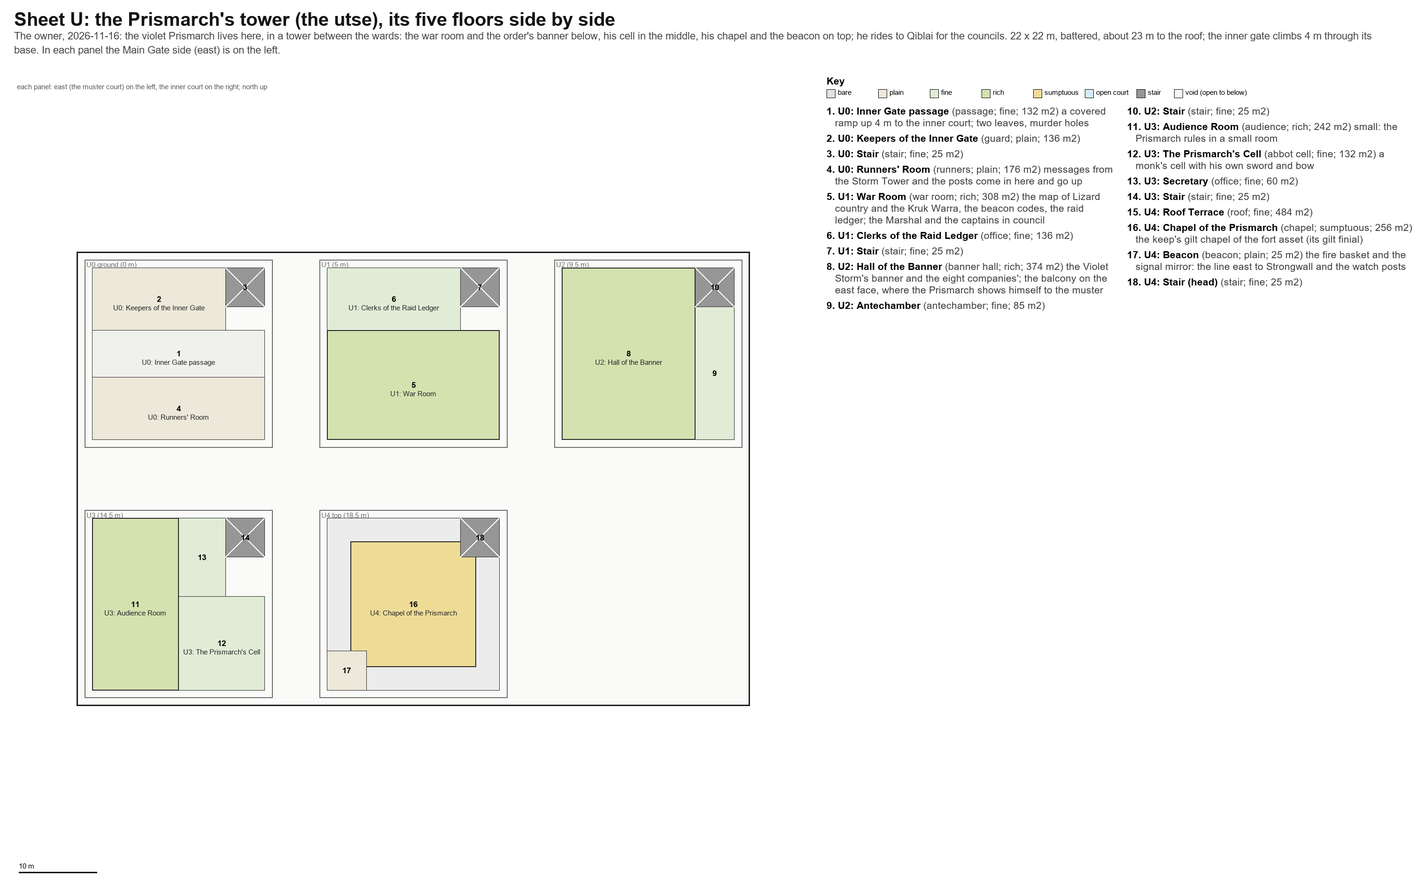
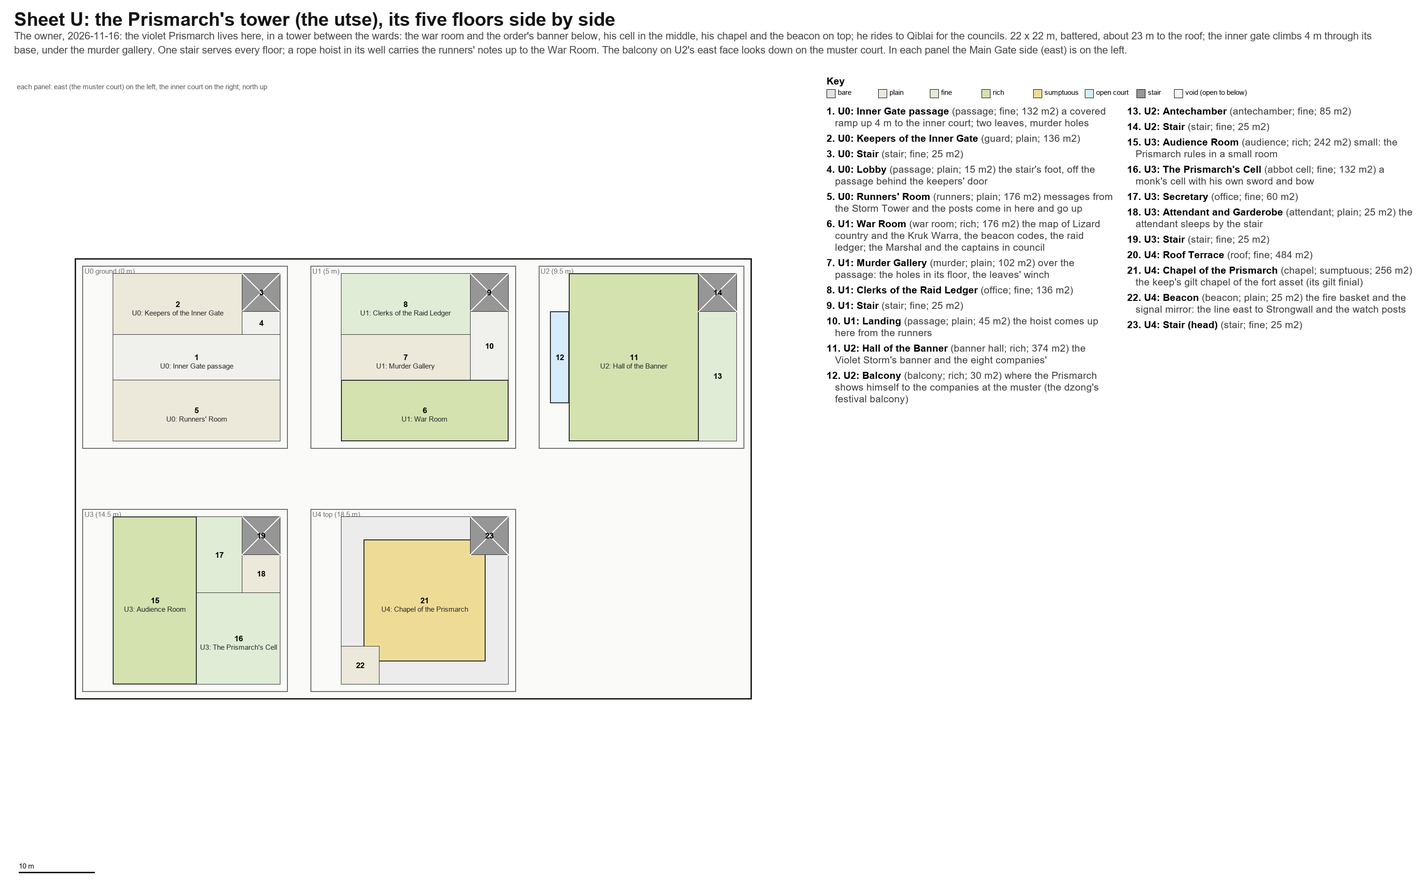
The House of the Tempest: sheet U and the section, a second pass
- U: a murder gallery over the inner gate passage on U1 (the War Room moves to the passage's south side); the
  balcony on U2's east face over the muster court drawn; an attendant's room and garderobe on U3; the stair's
  lobby on U0 and the landing on U1, where a rope hoist brings up the runners' notes; the sheet numbered in list order.
- Section: the hall's top storey split into the Hall of Vigil, the light well under the crown (its light drawn
  falling into the two-storey hall) and the windowless gonkhang; a height scale; the stair names in a key along
  the bottom instead of over the buildings; the stray curtain box through the Storm Tower removed.

diff --git a/settlements/strongwall/tempest/tempest_blueprint.py b/settlements/strongwall/tempest/tempest_blueprint.py
@@ -327,32 +327,38 @@ def ubox(pid, n, name, kind, b, decor, note=''):
     return up(pid, n, name, kind, b[0], b[1], b[2], b[3], decor, note)
 def upanel(pid, label):
     c, r = UPAN[pid]; du = -63 + c * 30; dv = 16 if r == 0 else -16
-    return (du - 1, du + 23, dv - 12, dv + 12, label)
-FLOORS.append(dict(R=50, rect=(-65, 21, -29, 29), id='U', tier=0,
+    return (du - 4, du + 23, dv - 12, dv + 12, label)
+FLOORS.append(dict(R=50, rect=(-68, 21, -29, 29), id='U', tier=0,
   title='Sheet U: the Prismarch\'s tower (the utse), its five floors side by side',
-  sub='The owner, 2026-11-16: the violet Prismarch lives here, in a tower between the wards: the war room and the order\'s banner below, his cell in the middle, his chapel and the beacon on top; he rides to Qiblai for the councils. 22 x 22 m, battered, about 23 m to the roof; the inner gate climbs 4 m through its base. In each panel the Main Gate side (east) is on the left.',
+  sub='The owner, 2026-11-16: the violet Prismarch lives here, in a tower between the wards: the war room and the order\'s banner below, his cell in the middle, his chapel and the beacon on top; he rides to Qiblai for the councils. 22 x 22 m, battered, about 23 m to the roof; the inner gate climbs 4 m through its base, under the murder gallery. One stair serves every floor; a rope hoist in its well carries the runners\' notes up to the War Room. The balcony on U2\'s east face looks down on the muster court. In each panel the Main Gate side (east) is on the left.',
   axisnote='each panel: east (the muster court) on the left, the inner court on the right; north up',
   outlines=[upanel('U0', 'U0 ground (0 m)'), upanel('U1', 'U1 (5 m)'), upanel('U2', 'U2 (9.5 m)'), upanel('U3', 'U3 (14.5 m)'), upanel('U4', 'U4 top (18.5 m)')],
   rooms=[
     up('U0', 1, 'Inner Gate passage', 'passage', 0, 22, -3, 3, 2, 'a covered ramp up 4 m to the inner court; two leaves, murder holes'),
     up('U0', 2, 'Keepers of the Inner Gate', 'guard', 0, 17, 3, 11, 1),
     ubox('U0', 3, 'Stair', 'stair', US, 2),
+    up('U0', 0, 'Lobby', 'passage', 17, 22, 3, 6, 1, 'the stair\'s foot, off the passage behind the keepers\' door'),
     up('U0', 4, 'Runners\' Room', 'runners', 0, 22, -11, -3, 1, 'messages from the Storm Tower and the posts come in here and go up'),
-    up('U1', 5, 'War Room', 'war_room', 0, 22, -11, 3, 3, 'the map of Lizard country and the Kruk Warra, the beacon codes, the raid ledger; the Marshal and the captains in council'),
-    up('U1', 6, 'Clerks of the Raid Ledger', 'office', 0, 17, 3, 11, 2),
-    ubox('U1', 7, 'Stair', 'stair', US, 2),
-    up('U2', 8, 'Hall of the Banner', 'banner_hall', 0, 17, -11, 11, 3, 'the Violet Storm\'s banner and the eight companies\'; the balcony on the east face, where the Prismarch shows himself to the muster'),
-    up('U2', 9, 'Antechamber', 'antechamber', 17, 22, -11, 6, 2),
-    ubox('U2', 10, 'Stair', 'stair', US, 2),
-    up('U3', 11, 'Audience Room', 'audience', 0, 11, -11, 11, 3, 'small: the Prismarch rules in a small room'),
-    up('U3', 12, 'The Prismarch\'s Cell', 'abbot_cell', 11, 22, -11, 1, 2, 'a monk\'s cell with his own sword and bow'),
-    up('U3', 13, 'Secretary', 'office', 11, 17, 1, 11, 2),
-    ubox('U3', 14, 'Stair', 'stair', US, 2),
-    up('U4', 15, 'Roof Terrace', 'roof', 0, 22, -11, 11, 2),
-    up('U4', 16, 'Chapel of the Prismarch', 'chapel', 3, 19, -8, 8, 4, 'the keep\'s gilt chapel of the fort asset (its gilt finial)'),
-    up('U4', 17, 'Beacon', 'beacon', 0, 5, -11, -6, 1, 'the fire basket and the signal mirror: the line east to Strongwall and the watch posts'),
-    ubox('U4', 18, 'Stair (head)', 'stair', US, 2),
+    up('U1', 5, 'War Room', 'war_room', 0, 22, -11, -3, 3, 'the map of Lizard country and the Kruk Warra, the beacon codes, the raid ledger; the Marshal and the captains in council'),
+    up('U1', 6, 'Murder Gallery', 'murder', 0, 17, -3, 3, 1, 'over the passage: the holes in its floor, the leaves\' winch'),
+    up('U1', 7, 'Clerks of the Raid Ledger', 'office', 0, 17, 3, 11, 2),
+    ubox('U1', 8, 'Stair', 'stair', US, 2),
+    up('U1', 0, 'Landing', 'passage', 17, 22, -3, 6, 1, 'the hoist comes up here from the runners'),
+    up('U2', 9, 'Hall of the Banner', 'banner_hall', 0, 17, -11, 11, 3, 'the Violet Storm\'s banner and the eight companies\''),
+    up('U2', 10, 'Balcony', 'balcony', -2.5, 0, -6, 6, 3, 'where the Prismarch shows himself to the companies at the muster (the dzong\'s festival balcony)'),
+    up('U2', 11, 'Antechamber', 'antechamber', 17, 22, -11, 6, 2),
+    ubox('U2', 12, 'Stair', 'stair', US, 2),
+    up('U3', 13, 'Audience Room', 'audience', 0, 11, -11, 11, 3, 'small: the Prismarch rules in a small room'),
+    up('U3', 14, 'The Prismarch\'s Cell', 'abbot_cell', 11, 22, -11, 1, 2, 'a monk\'s cell with his own sword and bow'),
+    up('U3', 15, 'Secretary', 'office', 11, 17, 1, 11, 2),
+    up('U3', 16, 'Attendant and Garderobe', 'attendant', 17, 22, 1, 6, 1, 'the attendant sleeps by the stair'),
+    ubox('U3', 17, 'Stair', 'stair', US, 2),
+    up('U4', 18, 'Roof Terrace', 'roof', 0, 22, -11, 11, 2),
+    up('U4', 19, 'Chapel of the Prismarch', 'chapel', 3, 19, -8, 8, 4, 'the keep\'s gilt chapel of the fort asset (its gilt finial)'),
+    up('U4', 20, 'Beacon', 'beacon', 0, 5, -11, -6, 1, 'the fire basket and the signal mirror: the line east to Strongwall and the watch posts'),
+    ubox('U4', 21, 'Stair (head)', 'stair', US, 2),
   ]))
+for _i, _r in enumerate(FLOORS[-1]['rooms']): _r['n'] = _i + 1   # sheet U is numbered in list order
 
 # ------------------------------------------------------------------------------------------------ the programmes
 cs = lambda n: max(1, round(n))
@@ -385,7 +391,9 @@ def programs():
       'towers': lambda a, w, d, D: [('xanadu_common_weapon_rack', N_TOWERS), ('xanadu_arms_arrow_bin', N_TOWERS), ('xanadu_common_bench', N_TOWERS)],
       'caravan_halt': lambda a, w, d, D: [('xanadu_trade_trough', 4), ('xanadu_trade_hayrack', 4), ('xanadu_common_bench', 4)],
       'tea_kitchen': lambda a, w, d, D: [('xanadu_common_tea_copper', 2), ('xanadu_common_hearth', 1), ('xanadu_works_churn', 2), ('xanadu_common_workbench', 1), ('xanadu_common_jug', 12)],
-      'latrine': lambda a, w, d, D: [], 'sang': lambda a, w, d, D: [('xanadu_court_incense_burner', 1)],
+      'latrine': lambda a, w, d, D: [],
+      'murder': lambda a, w, d, D: [('xanadu_common_weapon_rack', 2), ('xanadu_arms_arrow_bin', 2), ('xanadu_common_store', 2)],
+      'balcony': lambda a, w, d, D: [], 'attendant': lambda a, w, d, D: [('xanadu_common_bed', 1), ('xanadu_common_chest', 1)], 'sang': lambda a, w, d, D: [('xanadu_court_incense_burner', 1)],
       'lists': lambda a, w, d, D: [], 'bank': lambda a, w, d, D: [], 'field': lambda a, w, d, D: [], 'threshing': lambda a, w, d, D: [], 'cloister_court': lambda a, w, d, D: [],
       'roof': lambda a, w, d, D: [],
       'refectory': lambda a, w, d, D: [('xanadu_common_table', cs(a / 19)), ('xanadu_common_bench', cs(a / 9.5)), ('xanadu_common_reader_seat', 1), ('xanadu_common_bowl', cs(a / 4)), ('xanadu_common_jug', cs(a / 19))],
@@ -425,7 +433,7 @@ def programs():
     }
 
 OPEN = {'muster', 'lists', 'drill_court', 'archery', 'bank', 'yard', 'maydan', 'horse_park', 'field', 'threshing', 'cloister_court',
-        'fallen', 'founder', 'song_drum', 'roof', 'well', 'inner_court', 'porch', 'watch', 'hay', 'midden', 'garderobe', 'caravan_halt', 'sang'}
+        'fallen', 'founder', 'song_drum', 'roof', 'well', 'inner_court', 'porch', 'watch', 'hay', 'midden', 'garderobe', 'caravan_halt', 'sang', 'balcony'}
 
 def keymap():
     m = LS.keymap()
@@ -483,10 +491,15 @@ def draw_section():
     rect(-12.5, 25, 5.2, 11.6, (238, 228, 242)); dr.text((X(-12.5) + 3, Y(11.6) - 22), 'side ranges', font=fs, fill=(110, 90, 120))
     dr.rectangle([X(-9.2), Y(9.4), X(-5.2), Y(5.2)], fill=(238, 220, 150), outline=(30, 30, 30)); dr.text((X(-12), Y(9.4) - 22), 'Song drum', font=fs, fill=(0, 0, 0))
     rect(2.6, 5.8, 5.8, 9.0, (236, 232, 218))
-    for h0, h1, nm in [(5.8, 14.8, 'Assembly Hall (2 storeys)'), (14.8, 18.4, "Hall of Vigil; gonkhang")]:
-        rect(5.8, 22.8, h0, h1, (200, 160, 210)); dr.text((X(5.8) + 3, Y(h1) + 2), nm, font=fs, fill=(0, 0, 0))
+    rect(5.8, 22.8, 5.8, 14.8, (200, 160, 210)); dr.text((X(5.8) + 3, Y(14.8) + 2), 'Assembly Hall', font=fs, fill=(0, 0, 0))
+    dr.text((X(5.8) + 3, Y(14.8) + 22), '(two storeys)', font=fs, fill=(0, 0, 0))
+    rect(5.8, 11.6, 14.8, 18.4, (200, 160, 210)); dr.text((X(5.8) + 3, Y(18.4) + 2), 'vigil', font=fs, fill=(0, 0, 0))
+    rect(17.0, 22.8, 14.8, 18.4, (150, 110, 160)); dr.text((X(23.5), Y(18.4) - 4), 'gonkhang', font=fs, fill=(90, 50, 100))
+    rect(11.6, 17.0, 14.8, 18.4, (255, 255, 240))
+    for du in (1.2, 2.7, 4.2):
+        dr.line([(X(11.6 + du), Y(18.4)), (X(11.0 + du), Y(12.5))], fill=(220, 180, 60), width=2)
     dr.polygon([(X(11.6), Y(18.4)), (X(17.0), Y(18.4)), (X(16), Y(21)), (X(14.3), Y(22.5)), (X(12.6), Y(21))], fill=(238, 220, 150), outline=(120, 80, 0))
-    dr.text((X(18), Y(22.5) - 22), 'the gilt crown', font=fs, fill=(120, 80, 0))
+    dr.text((X(18), Y(22.5) - 22), 'the gilt crown: its light falls through the well into the hall', font=fs, fill=(120, 80, 0))
     rect(25, 32, 5.2, 11.6, (200, 160, 210)); dr.text((X(20), Y(4) + 4), 'back range', font=fs, fill=(0, 0, 0))
     rect(38, 48, 4, 12, (238, 220, 150)); dr.text((X(36), Y(12) - 22), "Founder's Chorten", font=fs, fill=(0, 0, 0))
     rect(53, 57, 0, 12, (236, 232, 218)); dr.text((X(48), Y(12) - 44), 'inner curtain 12 m', font=fs, fill=(0, 0, 0))
@@ -494,13 +507,16 @@ def draw_section():
     for h0, h1, nm in [(0, 5, 'west watch'), (5, 10, 'signal room'), (10, 15, 'watch'), (15, 20, 'mirrors, fire')]:
         rect(114, 140, h0, h1, (236, 232, 218)); dr.text((X(114) + 3, Y(h1) + 2), nm, font=fs, fill=(0, 0, 0))
     dr.text((X(108), Y(20) - 22), 'Storm Tower', font=fs, fill=(0, 0, 0))
-    rect(128, 132, 0, 9, (236, 232, 218))
     dr.line([(X(50), Y(4)), (X(52), Y(-4)), (X(150), Y(-4))], fill=(160, 0, 0), width=3); dr.text((X(62), Y(-4) + 4), "the Founder's Way (tunnel) to the brow's scrub", font=fs, fill=(160, 0, 0))
     k = 0
     for u, h0, h1, name, col in [(-43.5, 0, 22.5, 'utse stair', (0, 0, 0)), (-11.2, 5.2, 11.6, 'front stairs', (0, 120, 0)), (20.9, 5.8, 18.4, 'hall stair', (160, 0, 120)),
                                  (28.5, 5.2, 11.6, 'back stair', (0, 0, 160)), (137, 0, 20, 'tower stair', (120, 80, 0))]:
-        dr.line([(X(u), Y(h0)), (X(u), Y(h1))], fill=col, width=5); dr.text((X(u) + 6, Y(h1) + 30 + 20 * (k % 2)), name, font=fs, fill=col); k += 1
+        dr.line([(X(u), Y(h0)), (X(u), Y(h1))], fill=col, width=5)
+        dr.line([(X(-80) + k * 150, Y(-6) + 6), (X(-80) + k * 150 + 26, Y(-6) + 6)], fill=col, width=5); dr.text((X(-80) + k * 150 + 32, Y(-6) - 4), name, font=fs, fill=col); k += 1
     dr.line([(X(-170), Y(0)), (X(150), Y(0))], fill=(80, 80, 80), width=1)
+    for hh in range(0, 30, 5):
+        dr.line([(X(146), Y(hh)), (X(148), Y(hh))], fill=(0, 0, 0), width=2); dr.text((X(148) + 4, Y(hh) - 10), '%d m' % hh, font=fs, fill=(90, 90, 90))
+    dr.line([(X(146), Y(0)), (X(146), Y(25))], fill=(0, 0, 0), width=2)
     dr.line([(X(-160), Y(-6)), (X(-110), Y(-6))], fill=(0, 0, 0), width=3); dr.text((X(-160), Y(-6) + 4), '50 m', font=fs, fill=(0, 0, 0))
     return img
 

diff --git a/settlements/strongwall/tempest/FURNITURE.md b/settlements/strongwall/tempest/FURNITURE.md
@@ -225,46 +225,49 @@ The hall's top storey is the Hall of Vigil round the light well, where the Song-
 
 ## Sheet U: the Prismarch's tower (the utse), its five floors side by side
 
-The owner, 2026-11-16: the violet Prismarch lives here, in a tower between the wards: the war room and the order's banner below, his cell in the middle, his chapel and the beacon on top; he rides to Qiblai for the councils. 22 x 22 m, battered, about 23 m to the roof; the inner gate climbs 4 m through its base. In each panel the Main Gate side (east) is on the left.
+The owner, 2026-11-16: the violet Prismarch lives here, in a tower between the wards: the war room and the order's banner below, his cell in the middle, his chapel and the beacon on top; he rides to Qiblai for the councils. 22 x 22 m, battered, about 23 m to the roof; the inner gate climbs 4 m through its base, under the murder gallery. One stair serves every floor; a rope hoist in its well carries the runners' notes up to the War Room. The balcony on U2's east face looks down on the muster court. In each panel the Main Gate side (east) is on the left.
 
 | # | Room | Kind | Decor | m2 | Pieces |
 |---|---|---|---|---|---|
 | 2 | U0: Keepers of the Inner Gate | guard | plain | 136 | xanadu_arms_arrow_bin x1 **NEW**, xanadu_common_armour_stand x2, xanadu_common_banner x1, xanadu_common_bench x2, xanadu_common_fire x1, xanadu_common_hanging x1, xanadu_common_lamp x2, xanadu_common_table x1, xanadu_common_weapon_rack x2 |
 | 3 | U0: Stair | stair | fine | 25 | xanadu_common_lamp x1 |
-| 4 | U0: Runners' Room | runners | plain | 176 | xanadu_common_banner x1, xanadu_common_bench x4, xanadu_common_board x1, xanadu_common_chest x1, xanadu_common_hanging x1, xanadu_common_hour_drum x1 **NEW**, xanadu_common_lamp x3 |
-| 5 | U1: War Room | war room | rich | 308 | xanadu_common_board x3, xanadu_common_chair x12, xanadu_common_planter x3, xanadu_court_art x2, xanadu_court_bookcase x2, xanadu_court_carpet x4, xanadu_court_council_table x1, xanadu_court_hanging x3, xanadu_court_lamp x8, xanadu_court_map_table x1, xanadu_court_statue x1, xanadu_court_tapestry x4, xanadu_court_wall_rug x2 |
-| 6 | U1: Clerks of the Raid Ledger | office | fine | 136 | xanadu_common_art x2, xanadu_common_banner x1, xanadu_common_board x1, xanadu_common_bookcase x3, xanadu_common_chair x5, xanadu_common_chest x1, xanadu_common_desk x3, xanadu_common_hanging x1, xanadu_common_lamp x3, xanadu_common_rug x2, xanadu_common_scroll x1 |
-| 7 | U1: Stair | stair | fine | 25 | xanadu_common_lamp x1 |
-| 8 | U2: Hall of the Banner | banner hall | rich | 374 | xanadu_common_planter x3, xanadu_common_weapon_rack x2, xanadu_court_art x3, xanadu_court_banner x8, xanadu_court_carpet x5, xanadu_court_hanging x4, xanadu_court_lamp x9, xanadu_court_statue x1, xanadu_court_storm_banner x1 **NEW**, xanadu_court_tapestry x5, xanadu_court_wall_rug x3 |
-| 9 | U2: Antechamber | antechamber | fine | 85 | xanadu_common_art x1, xanadu_common_banner x1, xanadu_common_chair x3, xanadu_common_hanging x1, xanadu_common_lamp x2, xanadu_common_rug x1, xanadu_common_scroll x1, xanadu_court_divan x2, xanadu_court_low_table x1, xanadu_court_screen x1 |
-| 10 | U2: Stair | stair | fine | 25 | xanadu_common_lamp x1 |
-| 11 | U3: Audience Room | audience | rich | 242 | xanadu_common_meditation_cushion x8, xanadu_common_planter x2, xanadu_court_art x2, xanadu_court_carpet x3, xanadu_court_hanging x3, xanadu_court_lamp x6, xanadu_court_low_table x2, xanadu_court_screen x1, xanadu_court_statue x1, xanadu_court_tapestry x4, xanadu_court_throne x1, xanadu_court_wall_rug x2 |
-| 12 | U3: The Prismarch's Cell | abbot cell | fine | 132 | xanadu_arms_bow_rack x1 **NEW**, xanadu_common_armour_stand x1, xanadu_common_art x2, xanadu_common_banner x1, xanadu_common_bed x1, xanadu_common_chest x1, xanadu_common_desk x1, xanadu_common_hanging x1, xanadu_common_lamp x3, xanadu_common_meditation_cushion x1, xanadu_common_rug x2, xanadu_common_scroll x1, xanadu_common_weapon_rack x1 |
-| 13 | U3: Secretary | office | fine | 60 | xanadu_common_art x1, xanadu_common_banner x1, xanadu_common_board x1, xanadu_common_bookcase x1, xanadu_common_chair x2, xanadu_common_chest x1, xanadu_common_desk x2, xanadu_common_hanging x1, xanadu_common_lamp x1, xanadu_common_rug x1, xanadu_common_scroll x1 |
-| 14 | U3: Stair | stair | fine | 25 | xanadu_common_lamp x1 |
-| 15 | U4: Roof Terrace | roof | fine | 484 |  |
-| 16 | U4: Chapel of the Prismarch | chapel | sumptuous | 256 | xanadu_common_candle x8, xanadu_common_planter x3, xanadu_court_altar x1, xanadu_court_art x3, xanadu_court_candelabra x3, xanadu_court_carpet x4, xanadu_court_fire x2, xanadu_court_frieze x5, xanadu_court_hanging x4, xanadu_court_lamp x9, xanadu_court_painted_hanging x2, xanadu_court_statue x2, xanadu_court_tapestry x7 |
-| 17 | U4: Beacon | beacon | plain | 25 | xanadu_common_beacon_basket x1 **NEW**, xanadu_common_lamp x1, xanadu_common_signal_mirror x1 **NEW**, xanadu_common_store x2 |
-| 18 | U4: Stair (head) | stair | fine | 25 | xanadu_common_lamp x1 |
+| 5 | U0: Runners' Room | runners | plain | 176 | xanadu_common_banner x1, xanadu_common_bench x4, xanadu_common_board x1, xanadu_common_chest x1, xanadu_common_hanging x1, xanadu_common_hour_drum x1 **NEW**, xanadu_common_lamp x3 |
+| 6 | U1: War Room | war room | rich | 176 | xanadu_common_board x3, xanadu_common_chair x12, xanadu_common_planter x1, xanadu_court_art x2, xanadu_court_bookcase x2, xanadu_court_carpet x2, xanadu_court_council_table x1, xanadu_court_hanging x2, xanadu_court_lamp x4, xanadu_court_map_table x1, xanadu_court_statue x1, xanadu_court_tapestry x4, xanadu_court_wall_rug x2 |
+| 7 | U1: Murder Gallery | murder | plain | 102 | xanadu_arms_arrow_bin x2 **NEW**, xanadu_common_banner x1, xanadu_common_hanging x1, xanadu_common_lamp x2, xanadu_common_store x2, xanadu_common_weapon_rack x2 |
+| 8 | U1: Clerks of the Raid Ledger | office | fine | 136 | xanadu_common_art x2, xanadu_common_banner x1, xanadu_common_board x1, xanadu_common_bookcase x3, xanadu_common_chair x5, xanadu_common_chest x1, xanadu_common_desk x3, xanadu_common_hanging x1, xanadu_common_lamp x3, xanadu_common_rug x2, xanadu_common_scroll x1 |
+| 9 | U1: Stair | stair | fine | 25 | xanadu_common_lamp x1 |
+| 11 | U2: Hall of the Banner | banner hall | rich | 374 | xanadu_common_planter x3, xanadu_common_weapon_rack x2, xanadu_court_art x3, xanadu_court_banner x8, xanadu_court_carpet x5, xanadu_court_hanging x4, xanadu_court_lamp x9, xanadu_court_statue x1, xanadu_court_storm_banner x1 **NEW**, xanadu_court_tapestry x5, xanadu_court_wall_rug x3 |
+| 12 | U2: Balcony | balcony | rich | 30 |  |
+| 13 | U2: Antechamber | antechamber | fine | 85 | xanadu_common_art x1, xanadu_common_banner x1, xanadu_common_chair x3, xanadu_common_hanging x1, xanadu_common_lamp x2, xanadu_common_rug x1, xanadu_common_scroll x1, xanadu_court_divan x2, xanadu_court_low_table x1, xanadu_court_screen x1 |
+| 14 | U2: Stair | stair | fine | 25 | xanadu_common_lamp x1 |
+| 15 | U3: Audience Room | audience | rich | 242 | xanadu_common_meditation_cushion x8, xanadu_common_planter x2, xanadu_court_art x2, xanadu_court_carpet x3, xanadu_court_hanging x3, xanadu_court_lamp x6, xanadu_court_low_table x2, xanadu_court_screen x1, xanadu_court_statue x1, xanadu_court_tapestry x4, xanadu_court_throne x1, xanadu_court_wall_rug x2 |
+| 16 | U3: The Prismarch's Cell | abbot cell | fine | 132 | xanadu_arms_bow_rack x1 **NEW**, xanadu_common_armour_stand x1, xanadu_common_art x2, xanadu_common_banner x1, xanadu_common_bed x1, xanadu_common_chest x1, xanadu_common_desk x1, xanadu_common_hanging x1, xanadu_common_lamp x3, xanadu_common_meditation_cushion x1, xanadu_common_rug x2, xanadu_common_scroll x1, xanadu_common_weapon_rack x1 |
+| 17 | U3: Secretary | office | fine | 60 | xanadu_common_art x1, xanadu_common_banner x1, xanadu_common_board x1, xanadu_common_bookcase x1, xanadu_common_chair x2, xanadu_common_chest x1, xanadu_common_desk x2, xanadu_common_hanging x1, xanadu_common_lamp x1, xanadu_common_rug x1, xanadu_common_scroll x1 |
+| 18 | U3: Attendant and Garderobe | attendant | plain | 25 | xanadu_common_bed x1, xanadu_common_chest x1, xanadu_common_lamp x1 |
+| 19 | U3: Stair | stair | fine | 25 | xanadu_common_lamp x1 |
+| 20 | U4: Roof Terrace | roof | fine | 484 |  |
+| 21 | U4: Chapel of the Prismarch | chapel | sumptuous | 256 | xanadu_common_candle x8, xanadu_common_planter x3, xanadu_court_altar x1, xanadu_court_art x3, xanadu_court_candelabra x3, xanadu_court_carpet x4, xanadu_court_fire x2, xanadu_court_frieze x5, xanadu_court_hanging x4, xanadu_court_lamp x9, xanadu_court_painted_hanging x2, xanadu_court_statue x2, xanadu_court_tapestry x7 |
+| 22 | U4: Beacon | beacon | plain | 25 | xanadu_common_beacon_basket x1 **NEW**, xanadu_common_lamp x1, xanadu_common_signal_mirror x1 **NEW**, xanadu_common_store x2 |
+| 23 | U4: Stair (head) | stair | fine | 25 | xanadu_common_lamp x1 |
 
 ## Totals by piece
 
 | Key | Count | Note |
 |---|---|---|
-| xanadu_common_bed | 670 |  |
-| xanadu_common_chest | 614 |  |
-| xanadu_common_lamp | 535 |  |
+| xanadu_common_bed | 671 |  |
+| xanadu_common_chest | 615 |  |
+| xanadu_common_lamp | 538 |  |
 | xanadu_common_armour_stand | 382 |  |
 | xanadu_common_meditation_cushion | 343 |  |
 | xanadu_trade_stall | 327 |  |
-| xanadu_common_weapon_rack | 290 |  |
+| xanadu_common_weapon_rack | 292 |  |
 | xanadu_common_bench | 264 |  |
 | xanadu_common_bowl | 258 |  |
 | xanadu_arms_bow_rack | 227 | strung horn-and-sinew recurve bows on wall pegs, a quiver hung under each, violet cords |
-| xanadu_common_hanging | 200 |  |
+| xanadu_common_hanging | 201 |  |
 | xanadu_common_candle | 171 |  |
 | xanadu_trade_hayrack | 139 |  |
-| xanadu_arms_arrow_bin | 125 | a slatted bin of arrows in sheaves of thirty, fletched violet and white |
+| xanadu_arms_arrow_bin | 127 | a slatted bin of arrows in sheaves of thirty, fletched violet and white |
 | xanadu_arms_saddle_rack | 123 | saddles on wall pegs, bridles and the violet saddle-cloths below |
 | xanadu_common_rug | 122 |  |
 | xanadu_arms_bow_form | 121 | a composite bow lashed to its shaped wooden form to cure (a loft holds them in rows for a year) |
@@ -272,11 +275,11 @@ The owner, 2026-11-16: the violet Prismarch lives here, in a tower between the w
 | xanadu_works_sickbed | 120 |  |
 | xanadu_common_table | 109 |  |
 | xanadu_common_chair | 107 |  |
-| xanadu_common_banner | 102 |  |
+| xanadu_common_banner | 103 |  |
+| xanadu_common_store | 100 |  |
 | xanadu_common_wall_shelves | 99 |  |
-| xanadu_common_store | 98 |  |
 | xanadu_trade_bin | 96 |  |
-| xanadu_court_lamp | 95 |  |
+| xanadu_court_lamp | 91 |  |
 | xanadu_trade_trough | 90 |  |
 | xanadu_court_tapestry | 85 |  |
 | xanadu_common_art | 81 |  |
@@ -285,10 +288,10 @@ The owner, 2026-11-16: the violet Prismarch lives here, in a tower between the w
 | xanadu_common_prayer_wheels | 57 |  |
 | xanadu_common_low_table | 53 |  |
 | xanadu_common_stool | 52 |  |
-| xanadu_common_planter | 51 |  |
-| xanadu_court_hanging | 49 |  |
-| xanadu_court_carpet | 47 |  |
+| xanadu_common_planter | 49 |  |
+| xanadu_court_hanging | 48 |  |
 | xanadu_common_scroll | 46 |  |
+| xanadu_court_carpet | 45 |  |
 | xanadu_common_workbench | 43 |  |
 | xanadu_common_bath_basin | 38 |  |
 | xanadu_court_art | 36 |  |
@@ -357,7 +360,7 @@ The owner, 2026-11-16: the violet Prismarch lives here, in a tower between the w
 
 ## Pieces the catalog lacks (NEW)
 
-- `xanadu_arms_arrow_bin`: a slatted bin of arrows in sheaves of thirty, fletched violet and white (x125)
+- `xanadu_arms_arrow_bin`: a slatted bin of arrows in sheaves of thirty, fletched violet and white (x127)
 - `xanadu_arms_bow_form`: a composite bow lashed to its shaped wooden form to cure (a loft holds them in rows for a year) (x121)
 - `xanadu_arms_bow_rack`: strung horn-and-sinew recurve bows on wall pegs, a quiver hung under each, violet cords (x227)
 - `xanadu_arms_fletching_bench`: the fletcher's bench: shafts, a feather box, a glue pot on a brazier, a straightening iron (x15)

diff --git a/settlements/strongwall/tempest/BLUEPRINT.md b/settlements/strongwall/tempest/BLUEPRINT.md
@@ -145,7 +145,7 @@ and in the walled paddock by night; the milking herd at the byres.
 | M1 | monastery, ground | the Gate of the Song, the porter's lodge, the Blade Room, the sacristy; the cloister court and the Wheel of the Storm; the kora ring (the cloister walks, the court's arms beside the hall, the passage behind it); the porch, the Assembly Hall, the Shrine of the Storm; the Library of the Song, the scriptorium, the tea kitchen; the old brothers' ten cells; the chapter house, the treasury, the store, the latrines |
 | M2 | monastery, upper | the Drum of the Hours; 39 cells drawn one by one (front ranges on a corridor, side ranges on the gallery over the cloister roof); the Prior, the chant-master, the daughter house's guests on the gallery over the kora; the Masters' Gallery round the hall's void |
 | MR | monastery, top | the Hall of Vigil round the light well under the gilt crown (the crown's pavilion is the hall's lantern); the Protectors' Chapel behind it, windowless; the lookout; the roofs with their stair heads, the prayer-flag masts and the incense altar (sang) |
-| U | the utse | U0 the inner gate, its keepers, the runners; U1 the War Room and the raid ledger; U2 the Hall of the Banner and the balcony; U3 the audience room, the Prismarch's cell, his secretary; U4 his chapel, the roof terrace, the beacon |
+| U | the utse | U0 the inner gate passage, its keepers, the runners, the stair's lobby; U1 the War Room, the murder gallery over the passage, the raid ledger's clerks, the landing where the runners' hoist arrives; U2 the Hall of the Banner and the balcony over the muster court; U3 the audience room, the Prismarch's cell, his secretary, his attendant and garderobe; U4 his chapel, the roof terrace, the beacon |
 
 ## Finishes and the dress (*proposed*)
 
